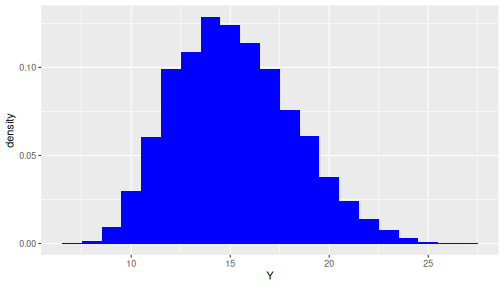
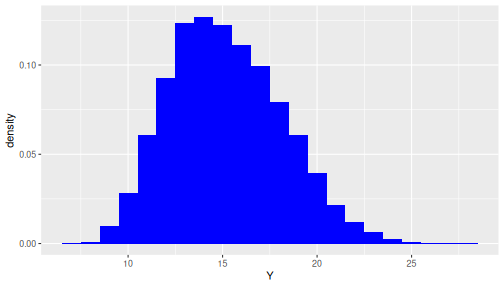
finalised uncertainty propagation note

diff --git a/notes/uncprop.html b/notes/uncprop.html
@@ -72,39 +72,47 @@
 <h1><a href=/ title="Stefan Siegert">Stefan Siegert</a></h1>
 
 
-<h2>A brief introduction to propagation of uncertainty</h2>
+<h2>Propagating uncertainty from inputs to outputs of a function</h2>
 
 
 
 
 
-<p>Assume we have a scalar function of several inputs \(f(x,y,z,...)\). We want to look at the different ways in which randomness in the input variables \(x, y, ...\) translates into randomness in the function value. This principle is of fundamental importance when analyzing how uncertainties in input parameters and measurements propagate through mathematical models to impact the output.
+<p>Assume we have a scalar function of several inputs \(f(x_1,x_2,\dots)\). In this note I'll look at different ways to quantify how randomness or uncertainty in the input variables \(x_1, x_2, ...\) translates into randomness or uncertainty in the function value. 
 
-<h2>Analytical methods</h2>
+<h2>Exact methods</h2>
 
 <h3>Univariate functions</h3>
 
-<p>Let's first consider univariate functions, i.e. \(f(x)\), where \(f\) is a known function. For a random variable \(X\) with a known distribution, applying a transformation \(Y=f(X)\) results in a new random variable \(Y\), whose distribution and statistical properties (such as expectation and variance) can be derived from those of \(X\).
+<p>Let's first consider univariate functions, i.e. \(y=f(x)\), where \(f\) is a known function. For a random variable \(X\) with a known distribution, applying a transformation \(f(X)\) results in a new random variable \(Y\) whose distribution and statistical properties (such as expectation and variance) can (sometimes) be derived from those of \(X\).
 
-<p>Transformation of Expectation: \(E[Y]\) can be calculated directly for a linear transformation \(f(x) = ax + b\): $$E[Y] = E[aX + b)] = aE[X] + b = f(E[X]).$$ When \(f\) is non-linear, we can use the Law of the Unconscious Statistician (LOTUS) to calculate the expectation of \(f(X)\): $$E[Y] = E[f(X)] = \int f(x) p(x) dx$$ where the integral is over the domain of \(X\) and \(p(x)\) is the pdf of \(X\). The integral can be solved analytically if \(f(x)p(x)\) is sufficiently simple. Otherwise we have to use numerical methods.
+<p>Transformation of Expectation: Expectation is not a measure of uncertainty, but is important enough for us to include here anyway. \(E[Y]\) can be calculated directly when the transformation is linear \(f(x) = ax + b\): $$E[Y] = E[aX + b)] = aE[X] + b = f(E[X]).$$ 
 
-<p>Transformation of Variance: \(Var[Y]\) can be calculated directly for linear transformations \(f(x) = ax + b\): $$Var[Y] = Var[aX + b] = a^2 Var[X].$$ When \(f\) is nonlinear but not too complicated, we might be able to use the LOTUS to calculate the variance of \(Y\) directly via $$\begin{aligned}Var[Y] & = E[Y^2] - E[Y]^2 = E[f(X)^2] - E[f(X)]^2\\ & = \int f(x)^2 p(x) dx - \left[ \int f(x) p(x) dx \right]^2.\end{aligned}$$ If that can't be solved we have to use some sort of approximations.
+<p>When the transformation \(f\) is non-linear, we can sometimes use the Law of the Unconscious Statistician (LOTUS) to calculate the expectation of \(Y=f(X)\). When \(p(x)\) is the pdf of \(X\) we have $$E[Y] = E[f(X)] = \int f(x) p(x) dx$$ where the integral is over the domain of \(X\). However, integrating \(f(x)p(x)\) analytically might not be possible.
 
-<p>Transformation of the Whole Distribution: The distribution of \(Y\) can be derived from the distribution of \(X\) using the change of variables technique, especially when the function \(f(x)\) is monotonic.
+<p>Transformation of Variance: \(Var[Y]\) can be calculated directly for linear transformations \(f(x) = ax + b\): $$Var[Y] = Var[aX + b] = a^2 Var[X].$$ 
 
-<p>Delta method: The Delta Method is used to approximate the variance of a transformed random variable \(Y = f(X)\). It is particularly useful when dealing with non-linear differentiable transformations \(f(x)\). To apply the Delta Method, the expectation \(\mu\) and variance \(\sigma^2\) of the untransformed variable \(X\) must be known. We first Taylor-expand \(f(X)\) around \(\mu\): \(Y = f(X) \approx f(\mu) + f'(\mu) (X - \mu)\) where \(f'(\mu)\) denotes the derivative of \(f\) evaluated at \(\mu\). Under this approximation, the expectation of \(Y\) is \(f(\mu)\). The Taylor approximation of \(Y\) is a linear function of \(X\) so the approximate variance of \(Y\) is given by \(Var[Y] \approx [f'(\mu)]^2 \sigma^2\).
+When \(f\) is nonlinear but not too "complicated", we can use the LOTUS to also calculate the variance of \(Y\): $$\begin{aligned}Var[Y] & = E[Y^2] - E[Y]^2 = E[f(X)^2] - E[f(X)]^2\\ & = \int f(x)^2 p(x) dx - \left[ \int f(x) p(x) dx \right]^2.\end{aligned}$$ As before, depending on the transformation and pdf the integrals might not be tractable.
+
+<p>Transformation of the Whole Distribution: The whole pdf of \(Y\) can be derived from the distribution of \(X\) using the change of variables technique. For simplicity we will assume here that \(f(x)\) is monotonic (either strictly increasing or strictly decreasing), and differentiable over the range of \(X\). We assume that the inverse transformation \(x = f^{-1}(y)\) is known. The pdf of \(Y\), denoted \(q(y)\) is then given by $$q(y) = \left| \frac{d}{dy}f^{-1}(y)\right| p(f^{-1}(y))$$
+
 
 
 <h3>Multivariate functions</h3>
 
 <p>When the transformation \(f\) is multivariate, this means that the transformed random variable \(Y\) depends on several random variables \(X_1, X_2, \dots\). We merge them into a random vector \(X = (X_1, X_2, \dots)^T\) which has an expectation vector \(\mu = (\mu_1, \mu_2, \dots)^T\), a variance-covariance matrix \(\Sigma\) has elements \(\Sigma_{ij} = Cov[X_i, X_j]\), and joint pdf \(p(X) = p(X_1, X_2, \dots)\). 
 
-<p>When the transformation \(Y=f(X)\) is linear we have \(f(X) = AX + b\) where \(A\) is a matrix with one row and b is a scalar (remember that we assume that \(Y\) is scalar). The expectation of \(Y\) is then given by \(E[Y] = A\mu + b\) and its variance is given by \(Var[Y] = A\Sigma A^T\). The pdf of \(Y\) can be derived from the change of variable formula. MORE HERE
-
-<p>When the transformation \(Y=f(X)\) is non-linear, we can use the Delta method. Let \(\nabla f\) denote the gradient vector of \(f\), that is, the \(i\)th element of \(\nabla f\) is the derivative of \(f\) with respect to its \(i\)th argument. Then the variance of \(Y = f(X)\) is approximated by $$Var[Y] \approx \nabla f(\mu)^T \Sigma \nabla f(\mu).$$
+<p>When the transformation \(Y=f(X)\) is linear we have \(f(X) = AX + b\) where \(A\) is a matrix with one row and b is a scalar. The expectation of \(Y\) is then given by \[E[Y] = A\mu + b\] and its variance is given by \[Var[Y] = A\Sigma A^T\]. The pdf \(q(y)\) of \(Y\) can be derived from \(p(x)\) by the change of variable formula \[q(y) = \int_{\mathbb{R}^n}p(x)\delta(y - f(x))dx.\] More background can be found on <a href=https://en.wikipedia.org/wiki/Probability_density_function#Vector_to_scalar target="_blank">wikipedia</a>. But I have not seen change of variable being used much for uncertainty propagation so won't go into detail right now.
 
 
-<h2>Monte Carlo</h2>
+<h2>Delta method</h2>
+
+<p>Delta method: The Delta Method is used to approximate the variance of a transformed random variable \(Y = f(X)\). It is particularly useful when dealing with non-linear differentiable transformations \(f(x)\). To apply the Delta Method, the expectation \(\mu\) and variance \(\sigma^2\) of the untransformed variable \(X\) must be known. We first Taylor-expand \(f(X)\) around \(\mu\): \(Y = f(X) \approx f(\mu) + f'(\mu) (X - \mu)\) where \(f'(\mu)\) denotes the derivative of \(f\) evaluated at \(\mu\). Under this approximation, the expectation of \(Y\) is \(f(\mu)\). The Taylor approximation of \(Y\) is a linear function of \(X\) so the approximate variance of \(Y\) is given by \[Var[Y] \approx [f'(\mu)]^2 \sigma^2.\]
+
+<p>The Delta method is also applicable to multivariate functions \(Y=f(X_1, X_2, \dots)\). Let \(\nabla f(x)\) denote the gradient of \(f\) evaluated at the vector \(x=(x_1,x_2,\dots)^T\). Then the variance of \(Y = f(X)\) is approximated by $$Var[Y] \approx \nabla f(\mu)^T \Sigma \nabla f(\mu).$$ 
+
+
+<h2>Monte Carlo simulation</h2>
 
 <p>The foundation for Monte Carlo methods is the Law of Large Numbers, which states that as the number of trials in a random experiment increases, the average of the results from all trials converges to the expected value. This principle underpins the reliability of Monte Carlo simulations for uncertainty propagation: By simulating a system many times with randomly sampled input parameters, we can approximate the distribution of the output, including its variance and other statistical properties.
 
@@ -127,12 +135,31 @@ Below is an R code chunk that demonstrates a Monte Carlo simulation where \(X_1\
                           <span class="hl kwc">binwidth</span> <span class="hl std">=</span> <span class="hl num">1</span><span class="hl std">,</span> <span class="hl kwc">fill</span> <span class="hl std">=</span> <span class="hl str">&quot;blue&quot;</span><span class="hl std">)</span>
 </pre></div>
 </div><div class="rimage default"><img src="fig/uncprop.Rhtml-mc-histogram-1.png" alt="plot of chunk mc-histogram" class="plot" /></div><div class="rcode">
-<div class="source"><pre class="knitr r"><span class="hl kwd">print</span><span class="hl std">(</span><span class="hl kwd">c</span><span class="hl std">(</span><span class="hl kwc">`mean(Y)`</span> <span class="hl std">=</span> <span class="hl kwd">mean</span><span class="hl std">(Y),</span> <span class="hl kwc">`sd(Y)`</span><span class="hl std">=</span><span class="hl kwd">sd</span><span class="hl std">(Y)))</span>
+<div class="source"><pre class="knitr r"><span class="hl kwd">print</span><span class="hl std">(</span><span class="hl kwd">c</span><span class="hl std">(</span><span class="hl kwc">`mean(Y)`</span> <span class="hl std">=</span> <span class="hl kwd">mean</span><span class="hl std">(Y),</span> <span class="hl kwc">`var(Y)`</span><span class="hl std">=</span><span class="hl kwd">var</span><span class="hl std">(Y),</span> <span class="hl kwc">`sd(Y)`</span><span class="hl std">=</span><span class="hl kwd">sd</span><span class="hl std">(Y)))</span>
 </pre></div>
-<div class="output"><pre class="knitr r">##  mean(Y)    sd(Y) 
-## 15.22099  3.00688
+<div class="output"><pre class="knitr r">##   mean(Y)    var(Y)     sd(Y) 
+## 15.195385  8.819005  2.969681
 </pre></div>
 </div></div>
+
+Let's compare the Monte Carlo variance to the delta method approximation. We have the joint expectation of \((X_1,X_2)^T\) as \(\mu = (30,35)^T\) and since \(X_1\) and \(X_2\) are independent their variance matrix is a diagonal matrix with \(diag(\Sigma) = (4, 100/12)^T\). I'll use R's built-in automatic symbolic differentiation function "deriv" to calculate the gradient. "deriv" can calculate derivatives of "simple" functions analytically. However, it has a very strange syntax: It takes the function to be differentiated as an R formula (starting with ~), then returns a function, which returns the desired gradient vector as an attribute of its return value. Anyway, this is the automatic differentiation version of the delta method, which should be quite straightforward to port to different functions:
+
+<div class="chunk" id="unnamed-chunk-3"><div class="rcode"><div class="source"><pre class="knitr r"><span class="hl std">f</span> <span class="hl kwb">=</span> <span class="hl opt">~</span><span class="hl std">x1</span><span class="hl opt">^</span><span class="hl num">2</span><span class="hl opt">*</span><span class="hl kwd">sin</span><span class="hl std">(x2</span><span class="hl opt">*</span><span class="hl std">pi</span><span class="hl opt">/</span><span class="hl num">180</span><span class="hl std">)</span><span class="hl opt">^</span><span class="hl num">2</span><span class="hl opt">/</span><span class="hl std">(</span><span class="hl num">2</span><span class="hl opt">*</span><span class="hl num">9.81</span><span class="hl std">)</span>
+<span class="hl std">deriv_f</span> <span class="hl kwb">=</span> <span class="hl kwd">deriv</span><span class="hl std">(f,</span> <span class="hl kwd">c</span><span class="hl std">(</span><span class="hl str">'x1'</span><span class="hl std">,</span><span class="hl str">'x2'</span><span class="hl std">),</span> <span class="hl kwa">function</span><span class="hl std">(</span><span class="hl kwc">x1</span><span class="hl std">,</span><span class="hl kwc">x2</span><span class="hl std">){})</span>
+<span class="hl std">grad_f</span> <span class="hl kwb">=</span> <span class="hl kwa">function</span><span class="hl std">(</span><span class="hl kwc">x1</span><span class="hl std">,</span> <span class="hl kwc">x2</span><span class="hl std">)</span>
+  <span class="hl kwd">as.vector</span><span class="hl std">(</span><span class="hl kwd">attributes</span><span class="hl std">(</span><span class="hl kwd">deriv_f</span><span class="hl std">(x1, x2))</span><span class="hl opt">$</span><span class="hl std">gradient)</span>
+<span class="hl std">grad_f_mu</span> <span class="hl kwb">=</span> <span class="hl kwd">grad_f</span><span class="hl std">(</span><span class="hl num">30</span><span class="hl std">,</span> <span class="hl num">35</span><span class="hl std">)</span>
+<span class="hl std">Sigma</span> <span class="hl kwb">=</span> <span class="hl kwd">diag</span><span class="hl std">(</span><span class="hl kwd">c</span><span class="hl std">(</span><span class="hl num">4</span><span class="hl std">,</span><span class="hl num">100</span><span class="hl opt">/</span><span class="hl num">12</span><span class="hl std">))</span>
+<span class="hl kwd">drop</span><span class="hl std">(</span><span class="hl kwd">t</span><span class="hl std">(grad_f_mu)</span> <span class="hl opt">%*%</span> <span class="hl std">Sigma</span> <span class="hl opt">%*%</span> <span class="hl std">grad_f_mu)</span>
+</pre></div>
+<div class="output"><pre class="knitr r">## [1] 8.765465
+</pre></div>
+</div></div>
+
+This is reassuringly close to the Monte Carlo estimate of the variance.
+
+
+<h2>Next steps</h2>
 
 As next steps in studying uncertainty propagation, here are some questions we might ask to move forward:
 
